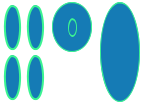
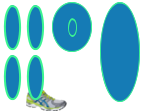
add shoes and fix offset error

Changed region(s): [[0.1622, 0.8108, 0.4595, 1.0]]

diff --git a/book/projects/runner/main.js b/book/projects/runner/main.js
@@ -24,8 +24,10 @@ NSMscsBend.runner = function(spec) {
       context.rotate(spec.topJointAngle * Math.PI / 180);
       context.translate(-spec.parts[0].spec.width/2, 0);
       spec.parts[0].render(context, 0, 0);
+      context.translate(+spec.parts[0].spec.width/2, 0);
       context.translate(0, spec.parts[0].spec.height);
       context.rotate(spec.lowerJointAngle * Math.PI / 180);
+      context.translate(-spec.parts[0].spec.width/2, 0);
       spec.parts[1].render(context, 0, 0);
     } else {
       context.translate(spec.hingePoint.x, spec.hingePoint.y);
@@ -52,7 +54,7 @@ NSMscsBend.runner = function(spec) {
     var head = that.bodyPart({x: 52, y: 2, width: 40, height: 50});
     var body = that.bodyPart({x: 100, y: 2, width: 40, height: 100});
     var upperLeg = that.bodyPart({x: 27, y: 5, width: 20, height: 45});
-    var lowerLeg = that.bodyPart({x: 27, y: 56, width: 20, height: 45});
+    var lowerLeg = that.bodyPart({x: 27, y: 56, width: 68, height: 58});
     var upperArm = that.bodyPart({x: 4, y: 5, width: 20, height: 45});
     var lowerArm = that.bodyPart({x: 4, y: 56, width: 20, height: 45});
     
